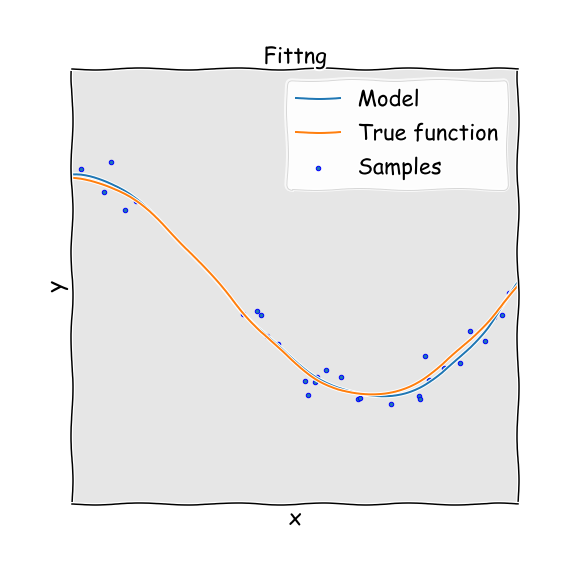
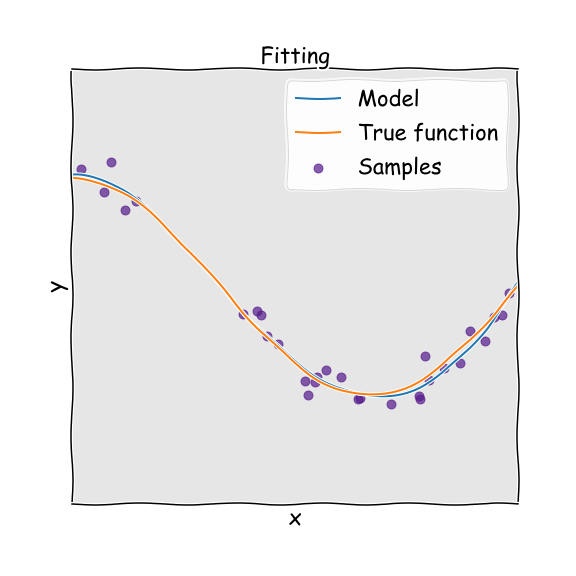
fixing up fitting pictures

diff --git a/_posts/2018-03-08-bias_variance.md b/_posts/2018-03-08-bias_variance.md
@@ -14,21 +14,21 @@ Bias and variance are two terms you need to get used to if constructing statisti
 If we have an underfitted model, this means that we do not have enough parameters to capture the trends in the underlying system. Imagine for example that we have data that is parabolic in nature, but we try to fit this with a linear function, with just one parameter. Because the function does not have the required complexity to fit the data (two parameters), we end up with a poor predictor. In this case the model will have high **bias**. This means that we will get consistent answers, but consistently wrong answers. 
 
 <figure>
-	<img src="{{ '/assets/images/Underfitting.png' | prepend: site.baseurl }}" alt="" width="400"> 
+	<img src="{{ '/assets/images/Underfitting.png' | prepend: site.baseurl }}" alt="" width="550"> 
 	<figcaption>An example of underfitting. The model function does not have enough complexity (parameters) to fit the true function correctly. Code adapted from the <a href ="http://scikit-learn.org/stable/auto_examples/model_selection/plot_underfitting_overfitting.html">scikit-learn website </a>. </figcaption>
 </figure>
 
 If we have overfitted, this means that we have too many parameters to be justified by the actual underlying data and therefore build an overly complex model. Again imagine that the true system is a parabola, but we used a higher order polynomial to fit to it.  Because we have natural noise in the data used to fit (deviations from the perfect parabola), the overly complex model treats these fluctuations and noise as if they were intrinsic properties of the system and attempts to fit to them. The result is a model that has high **variance**. This means that we will not get consistent predictions of future results. For a striking and devastating example of the dangers of overfitting, see [this excellent article](https://ml.berkeley.edu/blog/2017/07/13/tutorial-4/) which includes a section on the Fukushima disaster.
 
 <figure>
-	<img src="{{ '/assets/images/Overfitting.png' | prepend: site.baseurl }}" alt="" width="400"> 
+	<img src="{{ '/assets/images/Overfitting.png' | prepend: site.baseurl }}" alt="" width="550"> 
 	<figcaption>An example of overfitting. The model function has too much complexity (parameters) to fit the true function correctly. Code adapted from the <a href ="http://    scikit-learn.org/stable/auto_examples/model_selection/plot_underfitting_overfitting.html">scikit-learn website </a>. </figcaption>
 </figure>
 
 In order to find the optimal complexity we need to carefully train the model and then **validate** it against data that was unseen in the training set. The performance of the model against the validation set will initially improve, but eventually suffer and dis-improve. The inflection point represents the optimal model. To illustrate this process below I have the Python code required to build a model.
 
 <figure>
-	<img src="{{ '/assets/images/Fitting.png' | prepend: site.baseurl }}" alt="" width="400"> 
+	<img src="{{ '/assets/images/Fitting.png' | prepend: site.baseurl }}" alt="" width="550"> 
 	<figcaption>An example of a well chosen model. The model function the right complexity (parameters) to fit the true function correctly. Code adapted from the <a href ="http://    scikit-learn.org/stable/auto_examples/model_selection/plot_underfitting_overfitting.html">scikit-learn website </a>. </figcaption>
 </figure>
 
